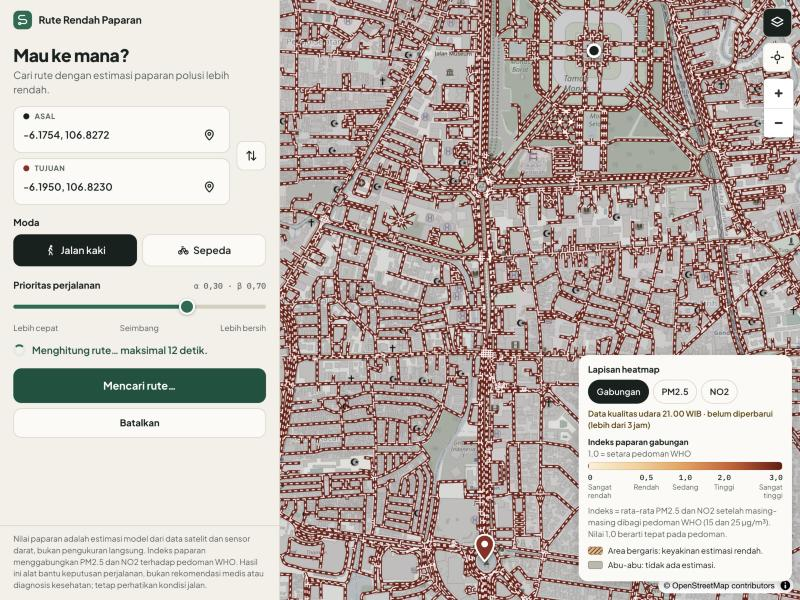
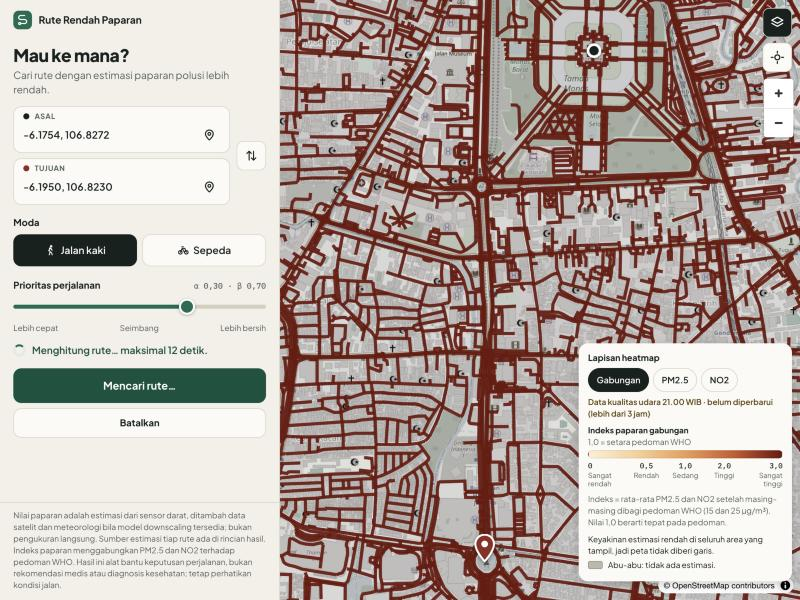
docs: laporan E2E TI-SE-10 tanpa defect terbuka (63/63)
- 63/63 lulus pada e56ea81 (dua eksekusi identik).

- D-01, D-02, D-06, D-07 diperbaiki di branch ini; D-03, D-04, D-05 tertutup oleh dev.

- Tangkapan 01-05 diambil ulang.

Changed region(s): [[0.0, 0.0, 1.0, 1.0], [0.75, 0.96, 0.8438, 1.0], [0.9688, 0.99, 1.0, 1.0]]

diff --git a/docs/ti-se-10/LAPORAN.md b/docs/ti-se-10/LAPORAN.md
@@ -1,6 +1,6 @@
 # Laporan Uji Integrasi End-to-End (TI-SE-10)
 
-Tanggal eksekusi: 2026-10-27, 12:50–12:52 UTC, pada `dev` terkini beserta perbaikan D-01 dan D-07. Pipeline yang diuji:
+Tanggal eksekusi: 2026-10-27, 13:10–13:12 UTC, pada `dev` terkini beserta perbaikan defect yang ditemukan uji ini. Pipeline yang diuji:
 
 ```
 Data Worker (portal SPKU → QC → downscaling) → Spatial Pollution Cache DB / OSM Cache DB
@@ -8,19 +8,20 @@ Data Worker (portal SPKU → QC → downscaling) → Spatial Pollution Cache DB 
                         ↘ Route Model (stub IRouteSolve)
 ```
 
-**Hasil: 62 dari 63 pemeriksaan lulus.** Satu pemeriksaan yang gagal adalah defect D-02 (gateway, DevOps).
-D-01 dan D-07 ditemukan oleh uji ini dan sudah diperbaiki di branch yang sama. Matriks
+**Hasil: 63 dari 63 pemeriksaan lulus.** Defect D-01, D-02, D-06, dan D-07 ditemukan oleh uji ini dan
+sudah diperbaiki di branch yang sama; D-03, D-04, dan D-05 tertutup oleh perubahan di `dev`. Tidak ada
+defect terbuka. Matriks
 lengkap: [MATRIKS.md](MATRIKS.md); data mentah: [hasil/](hasil/).
 
 ## 1. Versi yang diuji
 
 | Komponen | Versi |
 |---|---|
-| Aplikasi | commit `d5c5dea` di `feat/ti-se-10` = `dev` `f15c8f9` + harness `tests/e2e/` + perbaikan D-01 (`9eba0bd`) dan D-07 (`d5c5dea`); tree bersih saat eksekusi |
+| Aplikasi | commit `e56ea81` di `feat/ti-se-10` = `dev` `f15c8f9` + harness `tests/e2e/` + perbaikan D-01 (`9eba0bd`), D-07 (`d5c5dea`), D-02 (`e834e02`), D-06 (`e56ea81`); tree bersih saat eksekusi |
 | Data Worker | `src/data_worker` `c9fd83d` (termasuk TI-SE-02 #63, TI-DO-07 #57, TI-AI-05 #64, TI-DO-08 #62, #66), image `sippolusi-e2e-worker` |
 | Cache API | `src/backend` `d5c5dea` (TI-SE-04 sampai 08, #61, TI-DO-08, perbaikan D-01 dan D-07), image `sippolusi-e2e-cache_api` |
-| API Gateway | `src/gateway` `585c781`, image `sippolusi-e2e-gateway` |
-| Frontend | `src/frontend` `d5c5dea` (TI-SE-09 beserta perbaikan QA, sumber estimasi D-07), image `sippolusi-e2e-frontend` |
+| API Gateway | `src/gateway` `e834e02` (perbaikan D-02), image `sippolusi-e2e-gateway` |
+| Frontend | `src/frontend` `e56ea81` (TI-SE-09 beserta perbaikan QA, D-07, D-06), image `sippolusi-e2e-frontend` |
 | Basis data | PostgreSQL 18.6 + PostGIS 3.6.4 (`postgis/postgis:18-3.6`, sama dengan Railway) |
 | Model downscaling | `spatial-<hash>` per window (mis. 12:00 `spatial-efaaa52e…`). Untuk kedua polutan, Model Registry tidak dikonfigurasi di harness, sehingga keduanya fallback ke IDW `idw-p2-k8` dengan `fallback_reason: resolve_registry:ValueError` |
 | Model rute | `stub-e2e-1` (stub IRouteSolve, `tests/e2e/route_model_stub.py`); fallback Backend `astar-baseline`. MORL belum ada (TI-AI-10/11) |
@@ -49,7 +50,7 @@ Digest setiap image ada di [hasil/versions.json](hasil/versions.json).
     akan terhapus oleh riwayat 3 jam.
 - Cache API memakai `LOG_FORMAT=json`, sama seperti di Railway.
 - Runner `tests/e2e/run_e2e.py` (Python standar, `docker compose`, `psql`) menjalankan 11 skenario
-  berurutan dari keadaan bersih. Dua eksekusi berturut-turut memberi hasil yang sama (62/63).
+  berurutan dari keadaan bersih. Dua eksekusi berturut-turut memberi hasil yang sama (63/63).
 - Window fixture berasal dari 26 Oktober, jadi pada eksekusi ini datanya sudah lebih dari 3 jam. Respons
   dan UI menandainya `data_stale` ("Data kualitas udara belum diperbarui"). Itu perilaku yang benar, dan
   diperiksa di E2E-04.
@@ -71,11 +72,11 @@ Satu permintaan dapat ditelusuri dari frontend sampai inferensi, dan dari cache 
 ```
 Worker   run_id=20261026T1200Z-spatial-efaaa52e…-c36e8d1a rows_written=21987 coverage=1.0
 cache    edge_pollution.trace_run_id=20261026T1200Z-spatial-efaaa52e…-c36e8d1a  (→ pollution.inference_run)
-gateway  {"message":"POST /v1/routes 200","request_id":"9c3cf57120c0089f0397529f5992ebed","duration_s":0.407, ...}
-API      {"level":"info","logger":"solver","correlation_id":"9c3cf57120c0089f0397529f5992ebed",
-          "message":"route_inference request_id=9c3cf571… solver=http outcome=ok route_source=policy
-          model_version=stub-e2e-1 mode=walk alpha=0.3 beta=0.7 deadline_ms=7294 inference_ms=160.2"}
-respons  X-Request-ID = metadata.request_id = 9c3cf571…; metadata.time_window_start = 2026-10-26T12:00:00Z
+gateway  {"message":"POST /v1/routes 200","request_id":"1afb7900d615ab222a8197d5778e8476","duration_s":0.333, ...}
+API      {"level":"info","logger":"solver","correlation_id":"1afb7900d615ab222a8197d5778e8476",
+          "message":"route_inference request_id=1afb7900… solver=http outcome=ok route_source=policy
+          model_version=stub-e2e-1 mode=walk alpha=0.3 beta=0.7 deadline_ms=7342 inference_ms=140.5"}
+respons  X-Request-ID = metadata.request_id = 1afb7900…; metadata.time_window_start = 2026-10-26T12:00:00Z
 ```
 
 ID permintaan yang tampil di UI ([02](02-sukses-sumber-dan-versi.jpg)) juga tercatat di log gateway dan
@@ -92,7 +93,7 @@ Cache API. Log semua layanan diperiksa: tidak ada DSN, kata sandi, atau koordina
 | E2E-05 window sedang ditulis (2/2) | Window `writing` tidak terbaca; begitu `complete`, langsung dipakai |
 | E2E-06 inferensi gagal, fallback aktif (13/13) | Lambat, galat, label salah, no_route, layanan mati → rute tercepat bertanda baseline dengan `fallback_reason` yang tepat, < 10 s; log `outcome=fallback` dengan penyebab |
 | E2E-07 inferensi timeout, fallback mati (3/3) | 503 `solver_timeout` dalam batas gateway; no_route model → 503 `solver_no_route` (bukan 422) |
-| E2E-08 API dan basis data gagal (6/7) | Basis data mati → 503 `database_unavailable`, `/health/ready` 503, `/health/live` 200, pulih otomatis. Cache API mati → galat JSON dari gateway, tetapi 504 alih-alih 502 (D-02) |
+| E2E-08 API dan basis data gagal (7/7) | Basis data mati → 503 `database_unavailable`, `/health/ready` 503, `/health/live` 200, pulih otomatis. Cache API mati → langsung 502 `upstream_unavailable` dari gateway (D-02 diperbaiki), juga lewat frontend ([05](05-api-gagal-502.jpg)) |
 | E2E-09 versi graf dan cache tidak cocok (3/3) | Estimasi dari graf lain diabaikan → 503 `cache_empty`, bukan paparan nol |
 | E2E-10 kontrak API publik (1/1) | Koleksi uji 17 kasus (validasi, 413, 422, heatmap) lulus lewat gateway |
 | E2E-11 log aman (2/2) | Tanpa rahasia dan tanpa koordinat |
@@ -101,17 +102,17 @@ Cache API. Log semua layanan diperiksa: tidak ada DSN, kata sandi, atau koordina
 
 ### Terbuka
 
-| ID | Prioritas | Komponen (pemilik) | Defect | Langkah reproduksi | Usulan perbaikan |
-|---|---|---|---|---|---|
-| D-02 | Rendah | API Gateway (DO) | Selama ±10 s setelah Cache API berhenti, gateway menunggu `proxy_connect_timeout` 5 s lalu menjawab 504 `upstream_timeout`, bukan 502 `upstream_unavailable`. Penyebabnya, IP lama masih tersimpan di cache DNS (`resolver … valid=10s`). Pengguna menunggu 5 s dan melihat pesan "terlalu lama merespons". Setelah itu 502 seperti seharusnya ([05](05-api-gagal-502.jpg)) | E2E-08: `docker compose stop cache_api`, lalu langsung `POST /v1/routes` → 504 setelah ±5 s; permintaan berikutnya → 502 | Kecilkan `proxy_connect_timeout` di jaringan privat (mis. 2 s), atau tetap diterima dengan catatan |
-| D-06 | Sedang (UX) | Model downscaling dan frontend (AI/FE) | Semua confidence IDW < 0,4 (median 0,30), sehingga seluruh heatmap bergaris "keyakinan rendah" dan setiap rute berlencana "Keyakinan Rendah". Peta jadi padat dan pembeda keyakinan tidak informatif | Laporan Worker: `low_lt_0_4 = 21987` dari 21 987 ([hasil/worker-2026-10-26T1200Z.json](hasil/worker-2026-10-26T1200Z.json)) | Tinjau rumus confidence IDW atau ambang kelas (subbab 3.1) bersama tim AI |
+Tidak ada.
 
 ### Diperbaiki di branch ini (diverifikasi pada eksekusi ini)
 
 | ID | Defect semula | Perbaikan | Bukti |
 |---|---|---|---|
 | D-01 | Ruas yang kotak pembatasnya menyentuh bbox permintaan tetapi garisnya tidak, masuk subgraf (`&&`) namun bobotnya tersaring `ST_Intersects`. Ruas itu diisi median wilayah dengan confidence 0, dan UI menampilkan "3 ruas tanpa estimasi" walau semua ruas punya estimasi (Monas → Bundaran HI; ruas 111493, 359388, 370670). Terkonfirmasi juga di Railway oleh QA | `9eba0bd`: `_SQL_WEIGHTS` memakai filter bbox yang sama dengan subgraf (`&&`). Uji regresi `test_weights_cover_every_edge_of_the_road_graph_bbox` (ruas diagonal) gagal dengan query lama dan lulus setelah perbaikan | E2E-02: `missing_edge_count: 0`; UI tanpa catatan ruas tanpa estimasi ([01](01-sukses-rute-dari-data-worker.jpg)). Perlu deploy ke Railway agar hilang di sana |
-| D-07 | Fallback downscaling tidak terlihat oleh pengguna: respons hanya membawa `model_version.downscaling: spatial-<hash>`, dan frontend menulis tetap "Model downscaling spasial dari data satelit, meteorologi, dan sensor darat" walau estimasi berasal dari IDW sensor darat | `d5c5dea`: `metadata.estimation` `{source, fallback_pollutants}` dari baris cache ruas rute (OpenAPI dan contoh diperbarui); frontend menulis sumber estimasi sesuai nilai itu | E2E-02: `estimation` = laporan Worker; panel "Sumber estimasi": "Interpolasi dari sensor darat SPKU (IDW); model downscaling tidak tersedia" ([02](02-sukses-sumber-dan-versi.jpg)). Catatan: disclaimer umum di kaki panel (`DISCLAIMER` frontend) masih menyebut "data satelit dan sensor darat"; teks itu deskripsi sistem dari desain, perlu keputusan FE/PO bila ingin ikut menyesuaikan |
+| D-07 | Fallback downscaling tidak terlihat oleh pengguna: respons hanya membawa `model_version.downscaling: spatial-<hash>`, dan frontend menulis tetap "Model downscaling spasial dari data satelit, meteorologi, dan sensor darat" walau estimasi berasal dari IDW sensor darat | `d5c5dea`: `metadata.estimation` `{source, fallback_pollutants}` dari baris cache ruas rute (OpenAPI dan contoh diperbarui); frontend menulis sumber estimasi sesuai nilai itu | E2E-02: `estimation` = laporan Worker; panel "Sumber estimasi": "Interpolasi dari sensor darat SPKU (IDW); model downscaling tidak tersedia" ([02](02-sukses-sumber-dan-versi.jpg)). Disclaimer di kaki panel juga disesuaikan (`e56ea81`): satelit dan meteorologi disebut hanya bila model downscaling tersedia |
+
+| D-02 | Selama ±10 s setelah Cache API berhenti, gateway menunggu `proxy_connect_timeout` 5 s lalu menjawab 504 `upstream_timeout`, bukan 502 `upstream_unavailable`, karena IP lama masih tersimpan di cache DNS (`resolver … valid=10s`) | `e834e02`: `proxy_connect_timeout` 2 s di jaringan privat; 504 yang koneksi upstream-nya tidak pernah terbuka (`$upstream_connect_time` kosong) dijawab 502 `upstream_unavailable`. Timeout baca tetap 504. Uji bawaan gateway (`docker build --target test`) lulus | E2E-08: Cache API dimatikan lalu langsung `POST /v1/routes` → 502; tangkapan [05](05-api-gagal-502.jpg) diambil segera setelah Cache API berhenti. Kasus alamat tak terjangkau tidak dapat disimulasikan di uji build gateway (Docker Desktop menerima koneksi TCP ke alamat apa pun), sehingga buktinya E2E-08 |
+| D-06 | Semua confidence IDW < 0,4 (median 0,30), sehingga seluruh heatmap bergaris "keyakinan rendah"; peta padat dan garis tidak membedakan apa pun | `e56ea81` (frontend). Rumus confidence **tidak** diubah: batas IDW < 0,4 adalah ketentuan desain (Tabel 3.8, `docs/SPATIAL_MODEL_SPEC.md`). Bila seluruh area yang tampil berkeyakinan rendah, peta tidak diberi garis dan legenda menyatakannya sekali; garis tetap dipakai bila keyakinan bervariasi | Peta dan legenda "Keyakinan estimasi rendah di seluruh area yang tampil, jadi peta tidak diberi garis" ([01](01-sukses-rute-dari-data-worker.jpg)); uji unit `allLowConfidence`. Lencana "Keyakinan Rendah" per rute tetap ditampilkan karena memang benar |
 
 ### Tertutup oleh perubahan di `dev` (diverifikasi ulang pada eksekusi ini)
 
@@ -128,7 +129,7 @@ Cache API. Log semua layanan diperiksa: tidak ada DSN, kata sandi, atau koordina
 | Model Registry dan ST-GNN/LightGBM terdaftar (TI-AI-05, TI-AI-11) | Kode ada di `dev`; registry tidak disertakan di harness | Hanya jalur fallback per polutan yang teruji. Jalur model terdaftar perlu diuji dengan MLflow (atau setara) di stack |
 | Multi-Objective Route Model (TI-AI-10/11) | Belum ada layanan | Rute "policy" berasal dari stub yang memenuhi kontrak IRouteSolve; perilaku MORL sebenarnya belum teruji |
 | Sumber sekunder (TI-SE-02) | Dimatikan di harness (`FEATURES_SOURCES=none`) | FeatureMatrix dari satelit dan meteorologi tidak teruji; butuh fixture skema `features` |
-| Railway | TI-SE-08/09 sudah di-merge; `DOWNSCALE_WRITE_CACHE=1` aktif di `development` sejak 27 Okt; `public_api.smoke` lewat gateway Railway 17/17 lulus (QA) | Uji asap Railway sudah dilakukan; D-01 terkonfirmasi di sana. Perbaikan D-01 dan D-07 berlaku di Railway setelah PR ini di-merge dan di-deploy |
+| Railway | TI-SE-08/09 sudah di-merge; `DOWNSCALE_WRITE_CACHE=1` aktif di `development` sejak 27 Okt; `public_api.smoke` lewat gateway Railway 17/17 lulus (QA) | Uji asap Railway sudah dilakukan; D-01 terkonfirmasi di sana. Perbaikan D-01, D-02, D-06, dan D-07 berlaku di Railway setelah PR ini di-merge dan di-deploy; tidak ada variabel lingkungan baru |
 
 ## 6. Cara mengulang
 
